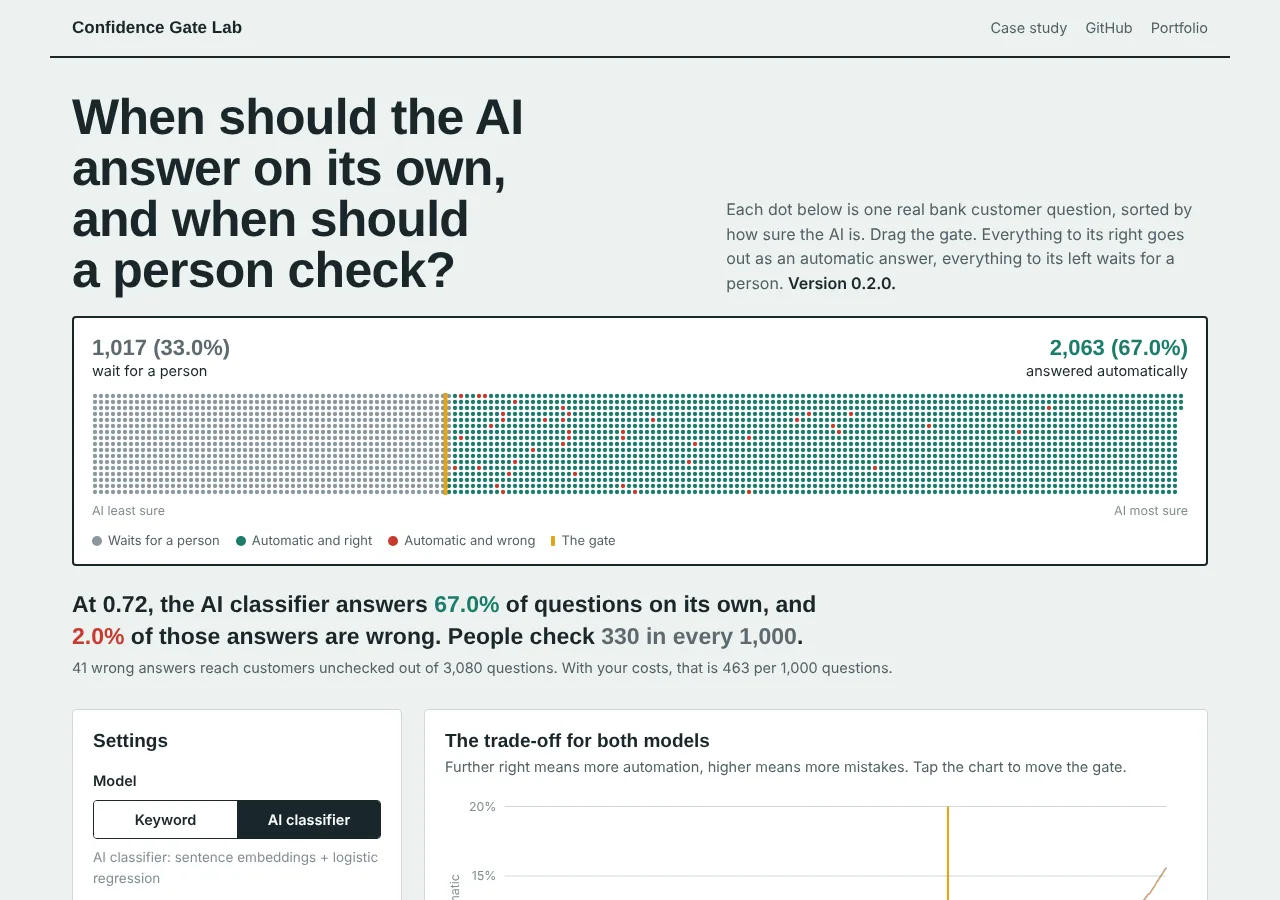
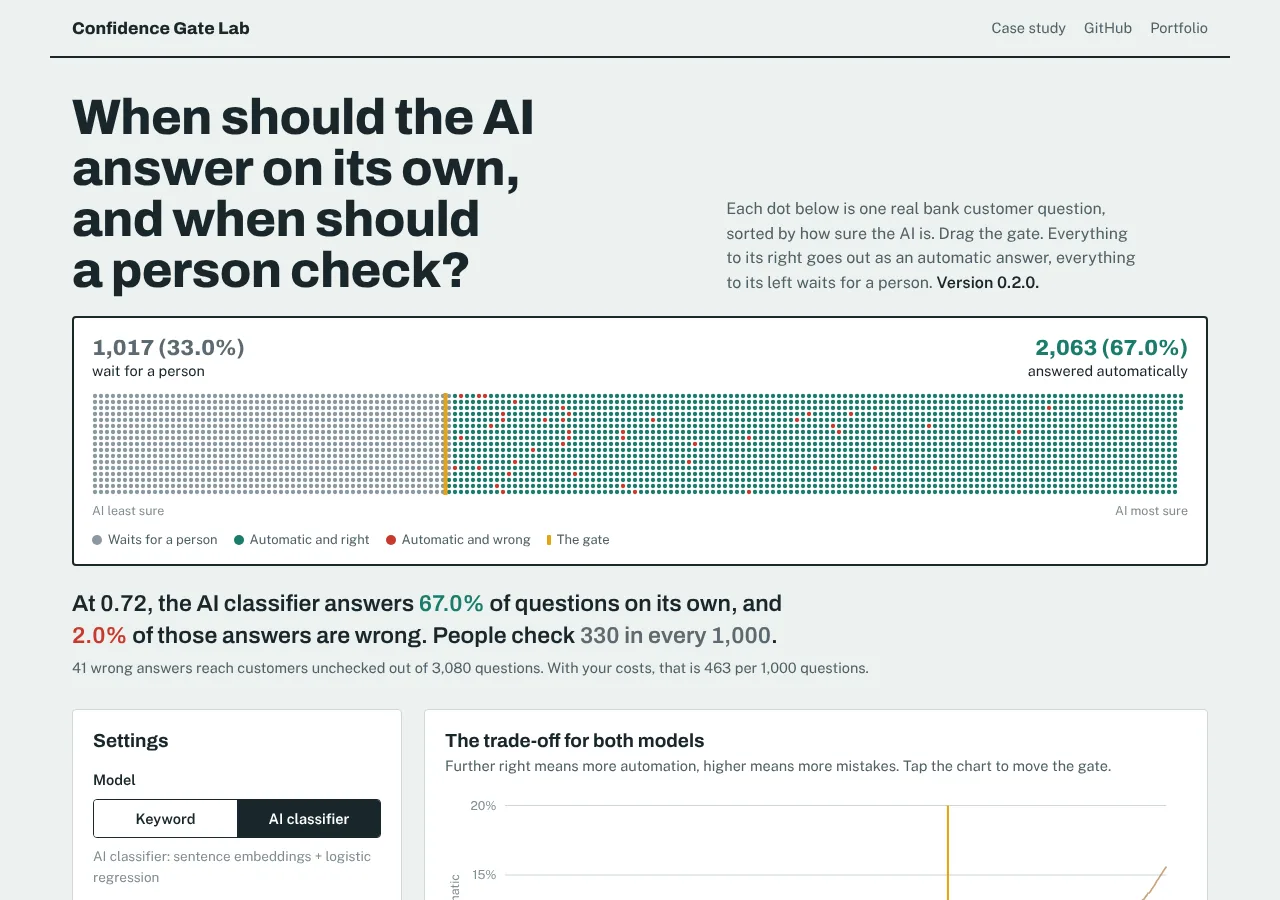
v2.20.0: six more redesigned apps, new screenshots

diff --git a/index.html b/index.html
@@ -288,7 +288,7 @@
         </div><a class="thumb" href="projects/garage-voice-agent.html" tabindex="-1" aria-hidden="true"><img src="assets/img/thumbs/garage-voice-agent.webp" alt="" width="560" height="350" loading="lazy"></a></article>
       <article class="work reveal" data-cat="data">
         <div>
-          <div class="meta"><span class="tag ver">v0.2.0</span><span class="tag confirmed">Live app</span></div>
+          <div class="meta"><span class="tag ver">v0.3.0</span><span class="tag confirmed">Live app</span></div>
           <h3>Room Mapping Lab</h3>
           <p class="on">Hotel content, room mapping, LiteAPI sandbox</p>
           <dl class="ps"><div><dt>Problem</dt><dd>Supplier room names don't match a hotel's own room list, so guests can end up with the wrong room.</dd></div><div><dt>Solution</dt><dd>Three matching methods scored on 187 LiteAPI sandbox hotels, with the confidence threshold set as a business decision.</dd></div></dl>
@@ -352,7 +352,7 @@
         </div><a class="thumb" href="projects/second-look.html" tabindex="-1" aria-hidden="true"><img src="assets/img/thumbs/second-look.webp" alt="" width="560" height="350" loading="lazy"></a></article>
       <article class="work reveal" data-cat="ai research">
         <div>
-          <div class="meta"><span class="tag ver">v0.1.0</span><span class="tag confirmed">Live app</span></div>
+          <div class="meta"><span class="tag ver">v0.2.0</span><span class="tag confirmed">Live app</span></div>
           <h3>Spec Critic</h3>
           <p class="on">AI product, product specs</p>
           <dl class="ps"><div><dt>Problem</dt><dd>Weak product specs reach engineering and cost time in refinement.</dd></div><div><dt>Solution</dt><dd>Paste a spec and get scores, issues tied to exact lines, open questions and a rewrite.</dd></div></dl>
@@ -448,7 +448,7 @@
         </div><a class="thumb" href="projects/churn-early-warning.html" tabindex="-1" aria-hidden="true"><img src="assets/img/thumbs/churn-early-warning.webp" alt="" width="560" height="350" loading="lazy"></a></article>
       <article class="work reveal" data-cat="search ai">
         <div>
-          <div class="meta"><span class="tag ver">v0.1.0</span><span class="tag confirmed">Live results</span></div>
+          <div class="meta"><span class="tag ver">v0.2.0</span><span class="tag confirmed">Live results</span></div>
           <h3>Help Center Search Check</h3>
           <p class="on">Search quality, 1,201 rated questions</p>
           <dl class="ps"><div><dt>Problem</dt><dd>A help center chatbot is only as good as the search under it.</dd></div><div><dt>Solution</dt><dd>Keyword, AI and hybrid search on 7,117 articles. The hybrid finds a good answer in the top 3 for 64% to 73% of questions.</dd></div></dl>
@@ -456,7 +456,7 @@
         </div><a class="thumb" href="projects/help-center-search-check.html" tabindex="-1" aria-hidden="true"><img src="assets/img/thumbs/help-center-search-check.webp" alt="" width="560" height="350" loading="lazy"></a></article>
       <article class="work reveal" data-cat="search data">
         <div>
-          <div class="meta"><span class="tag ver">v0.1.0</span><span class="tag confirmed">Live results</span></div>
+          <div class="meta"><span class="tag ver">v0.2.0</span><span class="tag confirmed">Live results</span></div>
           <h3>Recommendation Lab</h3>
           <p class="on">Discovery, 6 million book ratings</p>
           <dl class="ps"><div><dt>Problem</dt><dd>"Readers also liked" lists often miss what a reader wants next.</dd></div><div><dt>Solution</dt><dd>Three methods on 10,000 readers. Starting from the last 3 books liked found the next book 4 times as often.</dd></div></dl>
@@ -464,7 +464,7 @@
         </div><a class="thumb" href="projects/recommendation-lab.html" tabindex="-1" aria-hidden="true"><img src="assets/img/thumbs/recommendation-lab.webp" alt="" width="560" height="350" loading="lazy"></a></article>
       <article class="work reveal" data-cat="data ai">
         <div>
-          <div class="meta"><span class="tag ver">v0.1.0</span><span class="tag confirmed">Live results</span></div>
+          <div class="meta"><span class="tag ver">v0.2.0</span><span class="tag confirmed">Live results</span></div>
           <h3>Duplicate Product Finder</h3>
           <p class="on">Catalogue and master data quality</p>
           <dl class="ps"><div><dt>Problem</dt><dd>Duplicate listings clutter a catalogue, but merging the wrong pair is costly.</dd></div><div><dt>Solution</dt><dd>Decides which pairs can be handled without a person. 77% of candidate pairs close automatically.</dd></div></dl>
@@ -480,7 +480,7 @@
         </div><a class="thumb" href="projects/voice-of-the-customer-analyzer.html" tabindex="-1" aria-hidden="true"><img src="assets/img/thumbs/voice-of-the-customer-analyzer.webp" alt="" width="560" height="350" loading="lazy"></a></article>
       <article class="work reveal" data-cat="ai data">
         <div>
-          <div class="meta"><span class="tag ver">v0.1.0</span><span class="tag">n8n</span><span class="tag confirmed">Run live with Claude</span></div>
+          <div class="meta"><span class="tag ver">v0.2.0</span><span class="tag">n8n</span><span class="tag confirmed">Run live with Claude</span></div>
           <h3>Catalog Attribute Extractor</h3>
           <p class="on">n8n, Claude, WANDS catalogue</p>
           <dl class="ps"><div><dt>Problem</dt><dd>Products with missing attributes disappear when shoppers use filters.</dd></div><div><dt>Solution</dt><dd>Claude fills the values from product text in n8n. Values it and a keyword matcher agree on are right 88% of the time.</dd></div></dl>

diff --git a/projects/catalog-attribute-extractor.html b/projects/catalog-attribute-extractor.html
@@ -34,11 +34,11 @@
 <section class="p-hero">
   <div class="wrap">
     <a class="back" href="../#work">← All projects</a>
-    <div class="meta" style="display:flex;gap:10px;flex-wrap:wrap"><span class="tag ver">v0.1.0</span><span class="tag">n8n</span><span class="tag confirmed">Run live with Claude</span></div>
+    <div class="meta" style="display:flex;gap:10px;flex-wrap:wrap"><span class="tag ver">v0.2.0</span><span class="tag">n8n</span><span class="tag confirmed">Run live with Claude</span></div>
     <h1>Catalog Attribute Extractor</h1>
     <p class="lead">Shop filters only work if products have values for them, and most products in a large catalogue are missing some. An n8n workflow asks Claude to fill style, color, shape and material from the product text, with a quote as evidence. I scored it against a simple keyword matcher on real products whose values were hidden, to find out which values could go live without a person.</p>
     <div class="p-links"><a class="btn primary" href="https://kostasxeras.com/catalog-attribute-extractor/">See the results <span class="arrow">→</span></a><a class="btn" href="https://github.com/costasxeras-stack/catalog-attribute-extractor/blob/main/docs/case-study.md">Full case study</a><a class="btn" href="https://github.com/costasxeras-stack/catalog-attribute-extractor">Workflow and data</a></div>
-    <dl class="p-meta"><div><dt>Data</dt><dd>WANDS, 42,994 products</dd></div><div><dt>Scored</dt><dd>259 products, 379 values</dd></div><div><dt>Built in</dt><dd>n8n Cloud with Claude</dd></div><div><dt>Status</dt><dd>v0.1.0, results live</dd></div></dl>
+    <dl class="p-meta"><div><dt>Data</dt><dd>WANDS, 42,994 products</dd></div><div><dt>Scored</dt><dd>259 products, 379 values</dd></div><div><dt>Built in</dt><dd>n8n Cloud with Claude</dd></div><div><dt>Status</dt><dd>v0.2.0, results live</dd></div></dl>
   </div>
 </section>
 

diff --git a/projects/duplicate-product-finder.html b/projects/duplicate-product-finder.html
@@ -34,11 +34,11 @@
 <section class="p-hero">
   <div class="wrap">
     <a class="back" href="../#work">← All projects</a>
-    <div class="meta" style="display:flex;gap:10px;flex-wrap:wrap"><span class="tag ver">v0.1.0</span><span class="tag confirmed">Live results</span></div>
+    <div class="meta" style="display:flex;gap:10px;flex-wrap:wrap"><span class="tag ver">v0.2.0</span><span class="tag confirmed">Live results</span></div>
     <h1>Duplicate Product Finder</h1>
     <p class="lead">When two catalogues are combined, the same product often appears twice under different titles. Merging two different products is worse than keeping a duplicate. I scored four ways to find duplicates, from the classic model number rule to a local AI model, and turned the best one into a merge, check or keep apart rule.</p>
     <div class="p-links"><a class="btn primary" href="https://kostasxeras.com/duplicate-product-finder/">See the results <span class="arrow">→</span></a><a class="btn" href="https://github.com/costasxeras-stack/duplicate-product-finder/blob/main/docs/case-study.md">Full case study</a><a class="btn" href="https://github.com/costasxeras-stack/duplicate-product-finder">Code and data</a></div>
-    <dl class="p-meta"><div><dt>Data</dt><dd>Walmart-Amazon, Abt-Buy</dd></div><div><dt>Test pairs</dt><dd>2,049 and 1,916</dd></div><div><dt>AI</dt><dd>Local model, no paid calls</dd></div><div><dt>Status</dt><dd>v0.1.0, results live</dd></div></dl>
+    <dl class="p-meta"><div><dt>Data</dt><dd>Walmart-Amazon, Abt-Buy</dd></div><div><dt>Test pairs</dt><dd>2,049 and 1,916</dd></div><div><dt>AI</dt><dd>Local model, no paid calls</dd></div><div><dt>Status</dt><dd>v0.2.0, results live</dd></div></dl>
   </div>
 </section>
 

diff --git a/projects/recommendation-lab.html b/projects/recommendation-lab.html
@@ -34,11 +34,11 @@
 <section class="p-hero">
   <div class="wrap">
     <a class="back" href="../#work">← All projects</a>
-    <div class="meta" style="display:flex;gap:10px;flex-wrap:wrap"><span class="tag ver">v0.1.0</span><span class="tag confirmed">Live results</span></div>
+    <div class="meta" style="display:flex;gap:10px;flex-wrap:wrap"><span class="tag ver">v0.2.0</span><span class="tag confirmed">Live results</span></div>
     <h1>Recommendation Lab</h1>
     <p class="lead">Teams argue about recommendation algorithms. I tested a bestseller list, "readers also liked" and a taste profile model on 10,000 readers, hiding the last book each one liked. One choice around the method mattered more than the method itself: which of the reader's books to start from.</p>
     <div class="p-links"><a class="btn primary" href="https://kostasxeras.com/recommendation-lab/">See the results <span class="arrow">→</span></a><a class="btn" href="https://github.com/costasxeras-stack/recommendation-lab/blob/main/docs/case-study.md">Full case study</a><a class="btn" href="https://github.com/costasxeras-stack/recommendation-lab">Code and results</a></div>
-    <dl class="p-meta"><div><dt>Data</dt><dd>goodbooks-10k, 6M ratings</dd></div><div><dt>Test</dt><dd>10,000 readers</dd></div><div><dt>Methods</dt><dd>3, plus a series rule</dd></div><div><dt>Status</dt><dd>v0.1.0, results live</dd></div></dl>
+    <dl class="p-meta"><div><dt>Data</dt><dd>goodbooks-10k, 6M ratings</dd></div><div><dt>Test</dt><dd>10,000 readers</dd></div><div><dt>Methods</dt><dd>3, plus a series rule</dd></div><div><dt>Status</dt><dd>v0.2.0, results live</dd></div></dl>
   </div>
 </section>
 

diff --git a/projects/help-center-search-check.html b/projects/help-center-search-check.html
@@ -34,11 +34,11 @@
 <section class="p-hero">
   <div class="wrap">
     <a class="back" href="../#work">← All projects</a>
-    <div class="meta" style="display:flex;gap:10px;flex-wrap:wrap"><span class="tag ver">v0.1.0</span><span class="tag confirmed">Live results</span></div>
+    <div class="meta" style="display:flex;gap:10px;flex-wrap:wrap"><span class="tag ver">v0.2.0</span><span class="tag confirmed">Live results</span></div>
     <h1>Help Center Search Check</h1>
     <p class="lead">Teams ask whether to add AI search to their help center. I scored keyword search, a local AI model and a hybrid on 7,117 help articles and 1,201 questions that people rated, and looked at where search fails, not just the average.</p>
     <div class="p-links"><a class="btn primary" href="https://kostasxeras.com/help-center-search-check/">See the results <span class="arrow">→</span></a><a class="btn" href="https://github.com/costasxeras-stack/help-center-search-check/blob/main/docs/case-study.md">Full case study</a><a class="btn" href="https://github.com/costasxeras-stack/help-center-search-check">Code and results</a></div>
-    <dl class="p-meta"><div><dt>Data</dt><dd>COUGH, 56 public sources</dd></div><div><dt>Test</dt><dd>1,201 rated questions</dd></div><div><dt>AI</dt><dd>Local model, no paid calls</dd></div><div><dt>Status</dt><dd>v0.1.0, results live</dd></div></dl>
+    <dl class="p-meta"><div><dt>Data</dt><dd>COUGH, 56 public sources</dd></div><div><dt>Test</dt><dd>1,201 rated questions</dd></div><div><dt>AI</dt><dd>Local model, no paid calls</dd></div><div><dt>Status</dt><dd>v0.2.0, results live</dd></div></dl>
   </div>
 </section>
 

diff --git a/projects/room-mapping-lab.html b/projects/room-mapping-lab.html
@@ -34,11 +34,11 @@
 <section class="p-hero">
   <div class="wrap">
     <a class="back" href="../#work">← All projects</a>
-    <div class="meta" style="display:flex;gap:10px;flex-wrap:wrap"><span class="tag ver">v0.2.0</span><span class="tag confirmed">Live app</span></div>
+    <div class="meta" style="display:flex;gap:10px;flex-wrap:wrap"><span class="tag ver">v0.3.0</span><span class="tag confirmed">Live app</span></div>
     <h1>Room Mapping Lab</h1>
     <p class="lead">Every supplier names the same room differently. The hard part of room mapping is not matching, it is deciding how much to automate. This lab makes that trade-off concrete on real LiteAPI sandbox data.</p>
     <div class="p-links"><a class="btn primary" href="https://kostasxeras.com/room-mapping-lab/">Open the app <span class="arrow">→</span></a><a class="btn" href="https://github.com/costasxeras-stack/room-mapping-lab/blob/main/docs/case-study.md">Case study</a><a class="btn" href="https://github.com/costasxeras-stack/room-mapping-lab">Code and decisions</a></div>
-    <dl class="p-meta"><div><dt>Data</dt><dd>LiteAPI sandbox, 187 hotels, 8 cities</dd></div><div><dt>Names</dt><dd>1,710 supplier rate names</dd></div><div><dt>Methods</dt><dd>Rules, similarity, hybrid</dd></div><div><dt>Status</dt><dd>v0.2.0, live</dd></div></dl>
+    <dl class="p-meta"><div><dt>Data</dt><dd>LiteAPI sandbox, 187 hotels, 8 cities</dd></div><div><dt>Names</dt><dd>1,710 supplier rate names</dd></div><div><dt>Methods</dt><dd>Rules, similarity, hybrid</dd></div><div><dt>Status</dt><dd>v0.3.0, live</dd></div></dl>
   </div>
 </section>
 

diff --git a/projects/spec-critic.html b/projects/spec-critic.html
@@ -34,11 +34,11 @@
 <section class="p-hero">
   <div class="wrap">
     <a class="back" href="../#work">← All projects</a>
-    <div class="meta" style="display:flex;gap:10px;flex-wrap:wrap"><span class="tag ver">v0.1.0</span><span class="tag confirmed">Live app</span></div>
+    <div class="meta" style="display:flex;gap:10px;flex-wrap:wrap"><span class="tag ver">v0.2.0</span><span class="tag confirmed">Live app</span></div>
     <h1>Spec Critic</h1>
     <p class="lead">An AI reviewer for product specs, built around one trust rule: every issue must quote the spec, and the app checks that the quote is really there.</p>
     <div class="p-links"><a class="btn primary" href="https://kostasxeras.com/spec-critic/">Open the app <span class="arrow">→</span></a><a class="btn" href="https://github.com/costasxeras-stack/spec-critic/blob/main/docs/case-study.md">Case study</a><a class="btn" href="https://github.com/costasxeras-stack/spec-critic">Code and decisions</a></div>
-    <dl class="p-meta"><div><dt>AI</dt><dd>Claude, visitor's own key</dd></div><div><dt>Without a key</dt><dd>Labelled demo and rules check</dd></div><div><dt>Server</dt><dd>None</dd></div><div><dt>Status</dt><dd>v0.1.0, live</dd></div></dl>
+    <dl class="p-meta"><div><dt>AI</dt><dd>Claude, visitor's own key</dd></div><div><dt>Without a key</dt><dd>Labelled demo and rules check</dd></div><div><dt>Server</dt><dd>None</dd></div><div><dt>Status</dt><dd>v0.2.0, live</dd></div></dl>
   </div>
 </section>
 

diff --git a/CHANGELOG.md b/CHANGELOG.md
@@ -1,5 +1,11 @@
 # Changelog
 
+## 2.20.0 (23 November 2026)
+
+### Changed
+- Six more apps redesigned, each with its own look: Help Center Search Check, Recommendation Lab, Catalog Attribute Extractor, Spec Critic and Duplicate Product Finder at v0.2.0, Room Mapping Lab at v0.3.0. New screenshots on their cards and project pages.
+- Screenshots of Confidence Gate Lab, Garage Voice Agent and Search Relevance Lab retaken with each app's own fonts.
+
 ## 2.19.4 (23 November 2026)
 
 ### Changed

diff --git a/README.md b/README.md
@@ -2,7 +2,7 @@
 
 **My portfolio site, served free by GitHub Pages at https://kostasxeras.com.**
 
-**Current version:** 2.19.4
+**Current version:** 2.20.0
 
 Plain HTML and CSS, no build step. The custom domain is set by the `CNAME` file, and https://costasxeras-stack.github.io redirects there.
 
